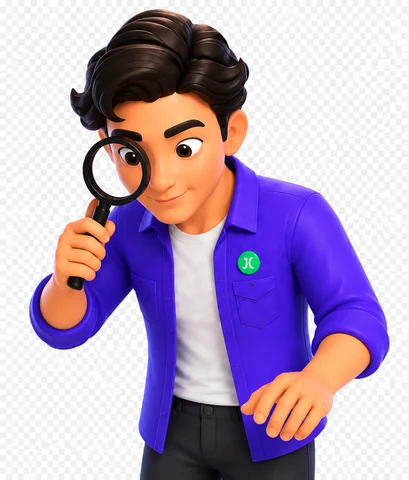
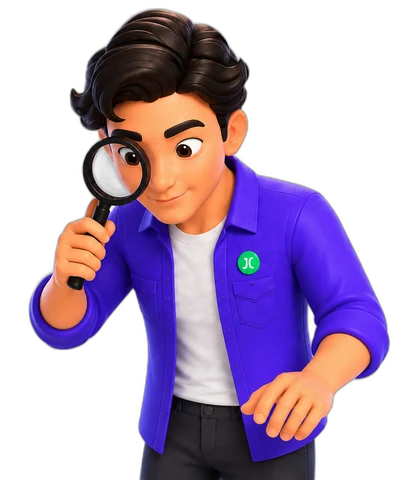
feat(brand): real transparency, a calmer hero, and the character lives everywhere
Three founder requests from the landing screenshot review:

- The character images from ChatGPT had FAKE transparency - an actual
  checkerboard painted into RGB pixels (only thumbs-up had real alpha).
  All deployed poses were re-cut locally with rembg into true alpha and
  re-exported as webp (19-41KB each). The avatar is now a circle-cropped
  head from the clean pose, with the violet ring drawn in CSS from
  tokens instead of baked pixels - crisp and mode-aware.

- Hero restructure: columns align to top, the demo window drops 64px so
  the inspecting character bridges between the headline and the window
  (inline-start, unflipped, looking down into the checklist) instead of
  floating detached at the page edge near the nav.

- The How It Works stepper no longer jumps: all three stage previews
  render permanently, stacked in one grid cell; the section height is
  the tallest panel and never changes on auto or manual stage switches.
  Replaced the remount fade with an opacity/transform transition.

New character placements (product pages only, none in admin): sitting
and waving on the hub hero card edge, showing-report beside the next
step door in the report, thumbs-up on the interview completion card,
inspecting over the background-scan waiting card, thinking in the
shared EmptyState, pointing on the roadmap building state. All are
decorative (aria-hidden, pointer-events none) and fold away on mobile.

Board task #22.

diff --git a/src/app/globals.css b/src/app/globals.css
@@ -270,7 +270,12 @@ html[data-mode="light"] .theme-tgl .ic-moon{display:none}
 }
 .brand{display:flex;align-items:center;gap:11px;text-decoration:none;color:inherit}
 /* המותג בדק עסק (26.8): הפנים של הדמות במקום אריח אותיות, השם כטקסט בטוקנים */
-.brand-face{flex:none;object-fit:contain} /* הגודל מגיע ממאפייני הרוחב של התמונה */
+/* הגודל מגיע ממאפייני הרוחב של התמונה; הטבעת מצוירת כאן ולא בקובץ - חדה ומתהפכת בין מצבים */
+.brand-face{
+  flex:none;object-fit:cover;border-radius:50%;
+  border:2px solid rgba(var(--acc-rgb),.7);
+  background:radial-gradient(circle at 50% 38%, rgba(var(--acc-rgb),.16), rgba(var(--acc-rgb),.05));
+}
 .brand-name span{color:var(--acc)}
 .brand-dot{
   display:inline-block;width:5px;height:5px;border-radius:50%;
@@ -283,6 +288,23 @@ html[data-mode="light"] .theme-tgl .ic-moon{display:none}
 .scan-buddy{
   position:absolute;top:-104px;inset-inline-end:10px;width:146px;z-index:0;
   transform:scaleX(-1);pointer-events:none;user-select:none;
+}
+/* גרסת ההירו: בצד הפנימי, בלי היפוך - מביט שמאלה-מטה אל תוך החלון */
+.scan-buddy.start{inset-inline-end:auto;inset-inline-start:16px;transform:none}
+/* מרכז העסק: הדמות יושבת על שפת הכרטיס הראשי, הרגליים נשפכות פנימה */
+.hub-buddy{
+  position:absolute;top:-56px;inset-inline-end:36px;width:116px;z-index:1;
+  pointer-events:none;user-select:none;
+}
+/* דלת התוכנית בדוח: הדמות עומדת בקצה הכרטיס, והתוכן מפנה לה מקום */
+.plan-core{position:relative;padding-inline-end:128px}
+.plan-buddy{
+  position:absolute;bottom:0;inset-inline-end:16px;width:102px;z-index:1;
+  pointer-events:none;user-select:none;
+}
+@media (max-width:880px){
+  .hub-buddy,.plan-buddy{display:none}
+  .plan-core{padding-inline-end:0}
 }
 @media (max-width:760px){.scan-buddy{display:none}}
 .brand-txt small{display:block;font-size:10.5px;color:var(--dim);letter-spacing:.12em;font-weight:600}
@@ -668,8 +690,13 @@ html[data-rail="mini"] .side-nav .foot{justify-content:center;padding-inline:0}
   width:min(var(--content-max), calc((100vw - var(--rail-w)) * .94));
 }
 @media (max-width:880px){.land-wrap{width:var(--content-w)}}
-.hero-grid{display:grid;grid-template-columns:1.05fr .95fr;gap:46px;align-items:center;padding:44px 0 48px}
-@media (max-width:920px){.hero-grid{grid-template-columns:1fr;gap:26px;padding:24px 0 30px}}
+.hero-grid{display:grid;grid-template-columns:1.05fr .95fr;gap:46px;align-items:start;padding:44px 0 48px}
+/* עמודת ההדגמה יורדת מעט: הדמות שמעל החלון יושבת בגובה הכותרת ומגשרת בין העמודות */
+.hero-demo{padding-top:64px}
+@media (max-width:920px){
+  .hero-grid{grid-template-columns:1fr;gap:26px;padding:24px 0 30px}
+  .hero-demo{padding-top:0}
+}
 .hero-h1{
   font-size:clamp(29px,3.3vw,44px);font-weight:800;line-height:1.2;
   letter-spacing:-.014em;text-wrap:balance;
@@ -954,9 +981,14 @@ html{scroll-behavior:smooth}
 .stage-btn.on .tick{animation:stage-tick 6s linear both}
 .stage-wrap[data-paused="true"] .stage-btn.on .tick{animation-play-state:paused}
 @keyframes stage-tick{from{transform:scaleX(0)}to{transform:scaleX(1)}}
-.stage-panel{position:relative;min-height:390px}
-.stage-fade{animation:stage-fade .55s var(--ease-out) both}
-@keyframes stage-fade{from{opacity:0;transform:translateY(10px)}to{opacity:1;transform:none}}
+/* ערימת גריד: כל הפאנלים באותו תא, הגובה קבוע לפי הגבוה מביניהם - אפס קפיצות במעבר */
+.stage-panel{position:relative;display:grid}
+.stage-panel>.stage-card{grid-area:1/1}
+.stage-card{
+  opacity:0;transform:translateY(10px);pointer-events:none;
+  transition:opacity .55s var(--ease-out), transform .55s var(--ease-out);
+}
+.stage-card.on{opacity:1;transform:none;pointer-events:auto}
 .demo-note{
   display:flex;align-items:center;gap:8px;
   margin-top:11px;font-size:12px;color:var(--mut);

diff --git a/src/app/variants/default-interview.tsx b/src/app/variants/default-interview.tsx
@@ -271,18 +271,29 @@ export function DefaultInterview({
             <div className="shell">
               <div className="core card-pad">
                 {questionsDone ? (
-                  <>
-                    <p className="text-[16.5px] font-bold leading-snug tracking-[-.01em]">עברנו על כל השאלות - תודה!</p>
-                    <p className="mt-1 text-[12.5px] leading-relaxed text-[color:var(--mut)]">
-                      כל תשובה כבר עדכנה את הדוח. אפשר להוסיף פרטים בכתיבה חופשית למטה, או לעבור אליו.
-                    </p>
-                    <div className="mt-4">
-                      <button type="button" className="btn sm" disabled={!canFinish} onClick={() => void finish()}>
-                        לדוח המעודכן
-                        <CapArrow />
-                      </button>
+                  <div className="flex items-center gap-5">
+                    {/* רגע ההצלחה מקבל את פוזת האגודל - הדמות חוגגת עם המשתמש */}
+                    <img
+                      src="/brand/thumbs-up.webp"
+                      alt=""
+                      aria-hidden="true"
+                      width={82}
+                      className="shrink-0 max-sm:hidden"
+                      style={{ pointerEvents: "none" }}
+                    />
+                    <div className="min-w-0">
+                      <p className="text-[16.5px] font-bold leading-snug tracking-[-.01em]">עברנו על כל השאלות - תודה!</p>
+                      <p className="mt-1 text-[12.5px] leading-relaxed text-[color:var(--mut)]">
+                        כל תשובה כבר עדכנה את הדוח. אפשר להוסיף פרטים בכתיבה חופשית למטה, או לעבור אליו.
+                      </p>
+                      <div className="mt-4">
+                        <button type="button" className="btn sm" disabled={!canFinish} onClick={() => void finish()}>
+                          לדוח המעודכן
+                          <CapArrow />
+                        </button>
+                      </div>
                     </div>
-                  </>
+                  </div>
                 ) : (
                   <>
                     <p className="text-[16.5px] font-bold leading-snug tracking-[-.01em]">ספרו לי על העסק במילים שלכם</p>

diff --git a/src/app/landing-screen.tsx b/src/app/landing-screen.tsx
@@ -295,7 +295,7 @@ function ScanTerminal() {
   return (
     <div className="scan-peek">
       {/* הדמות מציצה מעל חלון ההדגמה - אותו רגע בדיוק כמו במסך הסריקה האמיתי */}
-      <img src="/brand/inspecting.webp" alt="" aria-hidden="true" className="scan-buddy" />
+      <img src="/brand/inspecting.webp" alt="" aria-hidden="true" className="scan-buddy start" />
     <div className="shell term rv d4" ref={liveRef}>
       <div className="core">
         {/* בלי שלוש נקודות הצבע של חלון - קישוט טהור שרק מוסיף רעש לסרגל */}
@@ -1012,20 +1012,21 @@ function StageWalk() {
         ))}
       </div>
 
+      {/* שלושת הפאנלים חיים תמיד, ערומים זה על זה בגריד: הגובה הוא של הגבוה מביניהם
+          וקבוע, כך שמעבר שלב (אוטומטי או ידני) לא מקפיץ את העמוד (בקשת מייסד 26.8) */}
       <div className="stage-panel">
-        <div
-          className="shell stage-fade"
-          key={stage}
-          id="stage-panel"
-          role="tabpanel"
-          aria-labelledby={`stage-tab-${stage}`}
-        >
-          <div className="core" style={{ padding: "16px 16px 14px" }}>
-            {stage === 0 && <ReportPreview />}
-            {stage === 1 && <InterviewPreview />}
-            {stage === 2 && <PlanPreview />}
+        {[<ReportPreview key="r" />, <InterviewPreview key="i" />, <PlanPreview key="p" />].map((preview, i) => (
+          <div
+            key={i}
+            className={i === stage ? "shell stage-card on" : "shell stage-card"}
+            id={i === stage ? "stage-panel" : undefined}
+            role="tabpanel"
+            aria-labelledby={`stage-tab-${i}`}
+            aria-hidden={i !== stage}
+          >
+            <div className="core" style={{ padding: "16px 16px 14px" }}>{preview}</div>
           </div>
-        </div>
+        ))}
       </div>
     </div>
   );
@@ -1165,7 +1166,7 @@ export function LandingScreen() {
 
           {/* שלב הסריקה, רץ ומתואר. בלי כותרת מעליו - סרגל הכתובת ושורת הסיכום של המסוף
               כבר אומרים מה זה, וכותרת נוספת רק מוסיפה רעש */}
-          <div>
+          <div className="hero-demo">
             <Parallax strength={14}>
               <Tilt>
                 <ScanTerminal />

diff --git a/src/app/variants/default-screens.tsx b/src/app/variants/default-screens.tsx
@@ -124,7 +124,9 @@ export function DefaultHome({
       </header>
 
       <main className="board">
-        <section className="shell rv d1 c12">
+        <section className="shell rv d1 c12" style={{ position: "relative" }}>
+          {/* הדמות יושבת על שפת הכרטיס ומנופפת - פוזה בגוף מלא, אין קו חיתוך להסתיר */}
+          <img src="/brand/sitting-waving.webp" alt="" aria-hidden="true" className="hub-buddy" />
           <div className="core card-pad" style={LOSS_WASH_STYLE}>
             <h1 className="max-w-[26ch] text-2xl font-extrabold leading-snug tracking-tight sm:text-3xl">
               כמה שווה <span className="hl-accent">הנוכחות הדיגיטלית</span> של העסק שלך?
@@ -816,8 +818,10 @@ export function DefaultReport({
               פתוחה כקישור משני, בלי המילה "דלג". אין כאן אף מספר מומצא: הנימוק מגיע
               מ-recommendNextStep שמסתכל על הקרדיטים בפועל */}
           {hasPlan && (
-            <section id="plan" data-anchor className="shell rv d6">
-              <div className="core card-pad" style={PLAN_WASH_STYLE}>
+            <section id="plan" data-anchor className="shell rv d6" style={{ position: "relative" }}>
+              {/* הדמות מציגה את הכרטיס עם הוי הירוק - מצביעה על הצעד הבא */}
+              <img src="/brand/showing-report.webp" alt="" aria-hidden="true" className="plan-buddy" />
+              <div className="core card-pad plan-core" style={PLAN_WASH_STYLE}>
                 <div className="text-[11px] font-bold tracking-[.18em]" style={{ color: "var(--acc-soft)" }}>
                   הצעד הבא
                 </div>

diff --git a/src/app/ui/empty-state.tsx b/src/app/ui/empty-state.tsx
@@ -21,21 +21,15 @@ export function EmptyState({
     <main className="auth">
       <div className="shell auth-shell rv">
         <div className="core auth-core">
-          <span
-            className="mx-auto grid place-items-center rounded-full"
-            style={{
-              width: 46, height: 46,
-              background: "rgba(var(--acc-rgb),.1)",
-              border: "1px solid rgba(var(--acc-rgb),.25)",
-              color: "var(--acc-soft)",
-            }}
+          {/* הדמות החושבת במקום אייקון גנרי - "רגע, אין כאן כלום" עם פנים (26.8) */}
+          <img
+            src="/brand/thinking.webp"
+            alt=""
             aria-hidden="true"
-          >
-            <svg width="20" height="20" viewBox="0 0 24 24" fill="none" stroke="currentColor" strokeWidth="1.7" strokeLinecap="round" strokeLinejoin="round">
-              <circle cx="11" cy="11" r="7" />
-              <path d="M20 20l-3.2-3.2M11 8.2v3.4M11 14.2v.4" />
-            </svg>
-          </span>
+            width={104}
+            className="mx-auto"
+            style={{ pointerEvents: "none" }}
+          />
           <h1>{title}</h1>
           <p className="sub">{body}</p>
           <Link href={actionHref} className="btn sm self-center">

diff --git a/src/app/variants/default-roadmap.tsx b/src/app/variants/default-roadmap.tsx
@@ -344,6 +344,14 @@ export function DefaultRoadmap({
             {building && (
               <div className="shell rv">
                 <div className="core card-pad flex flex-col items-center gap-3 py-12 text-center">
+                  {/* הדמות מלווה את רגע הבנייה - הספינר נשאר, הוא המידע האמיתי */}
+                  <img
+                    src="/brand/pointing.webp"
+                    alt=""
+                    aria-hidden="true"
+                    width={96}
+                    style={{ pointerEvents: "none" }}
+                  />
                   <span
                     aria-hidden="true"
                     className="h-9 w-9 rounded-full border-[3px] border-[rgba(var(--acc-rgb),.25)]"

diff --git a/src/app/scan/scan-runner.tsx b/src/app/scan/scan-runner.tsx
@@ -110,6 +110,9 @@ function WaitingScreen({
 }) {
   return (
     <ScanFrame target={target} busy={true}>
+      <div className="scan-peek">
+        {/* גם כשמחכים לסריקה שרצה ברקע - הדמות באמצע בדיקה */}
+        <img src="/brand/inspecting.webp" alt="" aria-hidden="true" className="scan-buddy" />
       <section className="shell rv d1">
         <div className="core card-pad">
           <h1 className="text-xl font-extrabold tracking-tight sm:text-2xl">הסריקה כבר רצה ברקע</h1>
@@ -122,6 +125,7 @@ function WaitingScreen({
           )}
         </div>
       </section>
+      </div>
     </ScanFrame>
   );
 }
